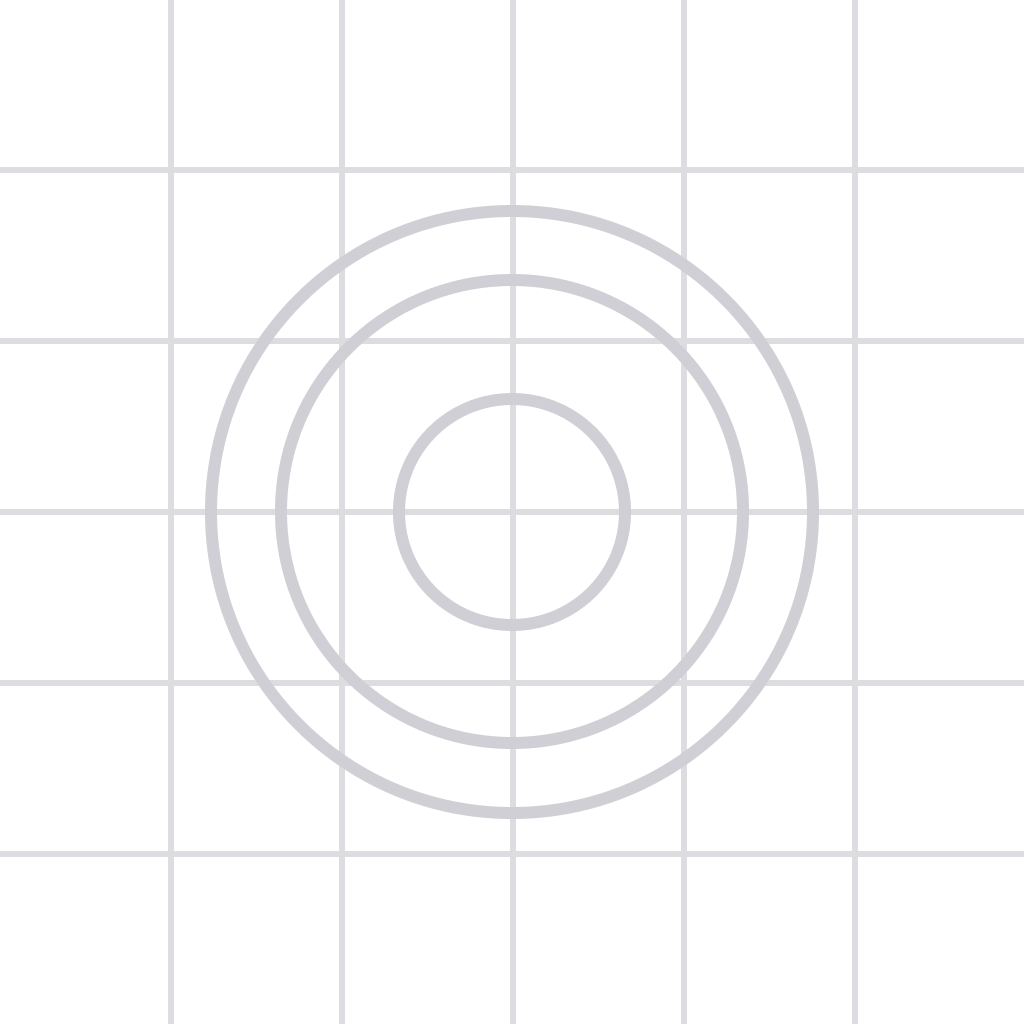
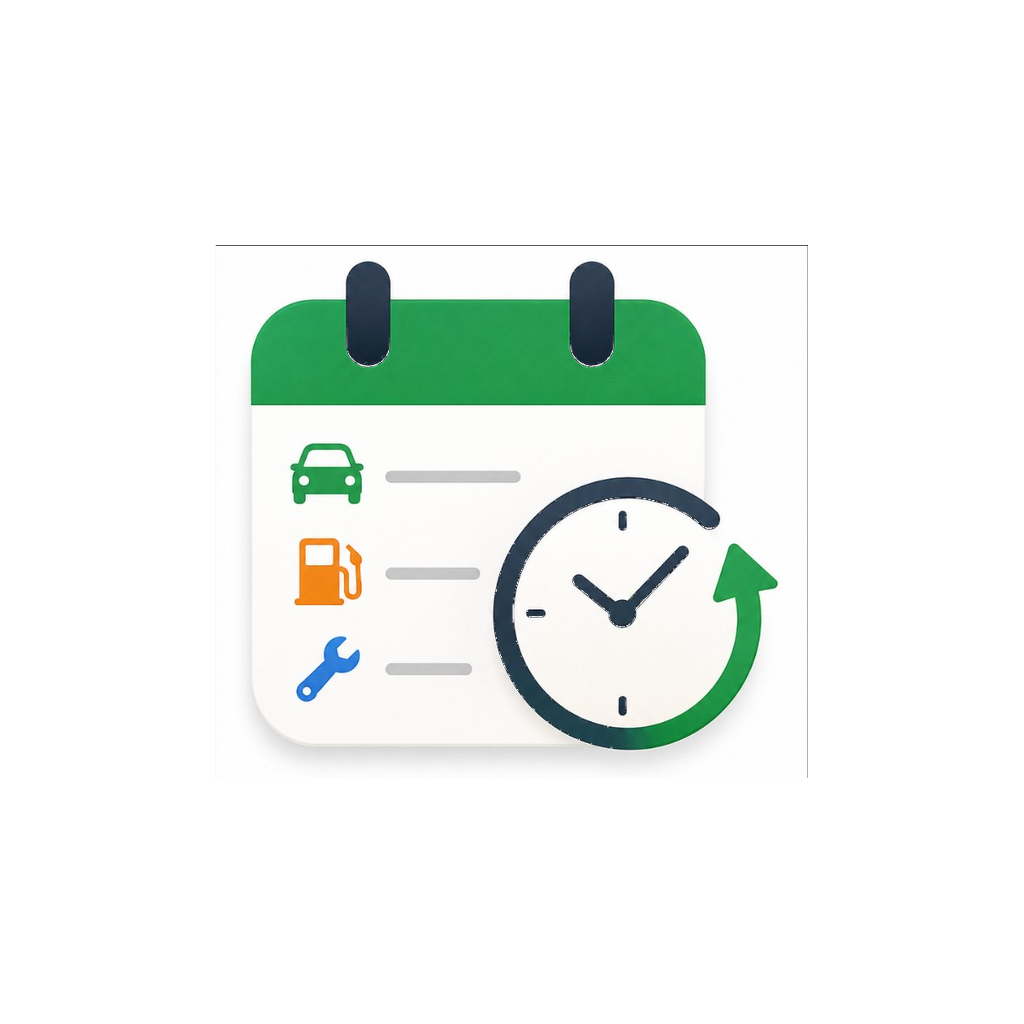
Finished removed bugs after App test

Changed region(s): [[0.0, 0.0, 1.0, 1.0]]

diff --git a/App.js b/App.js
@@ -1,8 +1,11 @@
-import { useState, useEffect } from "react";
+import { useState, useEffect, useRef } from "react";
+import {
+  SafeAreaProvider,
+  useSafeAreaInsets,
+} from "react-native-safe-area-context";
 import Welcome from "./Welcome";
 import styles from "./styles";
 import {
-  SafeAreaView,
   View,
   Text,
   FlatList,
@@ -12,7 +15,6 @@ import {
   Platform,
   LogBox,
   Modal,
-  KeyboardAvoidingView,
   Keyboard,
   Image,
 } from "react-native";
@@ -73,28 +75,15 @@ function normalize(item) {
   };
 }
 
-const SEED = [
-  {
-    id: "1",
-    name: "Quran reading",
-    history: [
-      { date: "2026-06-15", note: "Surah Al-Baqarah, Ayah 142" },
-      { date: "2026-06-10", note: "Surah Al-Baqarah, Ayah 88" },
-    ],
-  },
-  {
-    id: "2",
-    name: "Motorcycle oil change",
-    history: [{ date: "2026-05-20", note: "" }],
-  },
-  {
-    id: "3",
-    name: "Backed up laptop",
-    history: [{ date: "2026-04-30", note: "Full backup to external drive" }],
-  },
-];
-
 export default function App() {
+  return (
+    <SafeAreaProvider>
+      <Main />
+    </SafeAreaProvider>
+  );
+}
+
+function Main() {
   const [items, setItems] = useState([]);
   const [draft, setDraft] = useState("");
   const [loaded, setLoaded] = useState(false);
@@ -107,6 +96,9 @@ export default function App() {
   const [reminderId, setReminderId] = useState(null);
   const [reminderValue, setReminderValue] = useState("1");
   const [reminderUnit, setReminderUnit] = useState("days");
+
+  const insets = useSafeAreaInsets();
+  const listRef = useRef(null);
 
   //too hide keyboard
   useEffect(() => {
@@ -143,10 +135,10 @@ export default function App() {
     (async () => {
       try {
         const json = await AsyncStorage.getItem(STORAGE_KEY);
-        const raw = json != null ? JSON.parse(json) : SEED;
+        const raw = json != null ? JSON.parse(json) : [];
         setItems(raw.map(normalize));
       } catch (e) {
-        setItems(SEED);
+        setItems([]);
       } finally {
         setLoaded(true);
       }
@@ -229,6 +221,16 @@ export default function App() {
   function startEdit(itemId, idx, currentNote) {
     setEditing({ itemId, idx });
     setEditDraft(currentNote || "");
+    const itemIndex = items.findIndex((i) => i.id === itemId);
+    if (itemIndex >= 0) {
+      setTimeout(() => {
+        listRef.current?.scrollToIndex({
+          index: itemIndex,
+          animated: true,
+          viewPosition: 0.2,
+        });
+      }, 100);
+    }
   }
 
   function saveEdit() {
@@ -249,16 +251,6 @@ export default function App() {
     );
     setEditing(null);
     setEditDraft("");
-  }
-
-  function deleteEntry(itemId, idx) {
-    setItems((prev) =>
-      prev.map((it) =>
-        it.id === itemId
-          ? { ...it, history: it.history.filter((_, i) => i !== idx) }
-          : it
-      )
-    );
   }
 
   function deleteEntry(itemId, idx) {
@@ -359,7 +351,7 @@ export default function App() {
 
   if (!ready) return <Welcome onDone={() => setReady(true)} />;
   return (
-    <SafeAreaView style={styles.screen}>
+    <View style={[styles.screen, { paddingTop: insets.top }]}>
       <StatusBar style="auto" />
       {/* header code */}
       <View style={styles.header}>
@@ -389,9 +381,19 @@ export default function App() {
           <Text style={styles.addButtonText}>Add</Text>
         </Pressable>
       </View>
-    {/* Card section */}
+      {/* Card section */}
       <FlatList
-        contentContainerStyle={{ paddingBottom: kbHeight + 40 }}
+        ref={listRef}
+        onScrollToIndexFailed={(info) => {
+          setTimeout(() => {
+            listRef.current?.scrollToIndex({
+              index: info.index,
+              animated: true,
+              viewPosition: 0.2,
+            });
+          }, 250);
+        }}
+        contentContainerStyle={{ paddingBottom: kbHeight + insets.bottom + 12 }}
         data={items}
         ListEmptyComponent={<EmptyComponent />}
         keyExtractor={(item) => item.id}
@@ -527,18 +529,20 @@ export default function App() {
           );
         }}
       />
-
+      {/* add entry modal */}
       <Modal
         visible={activeId !== null}
         transparent
         animationType="slide"
         onRequestClose={cancelEntry}
       >
-        <KeyboardAvoidingView
-          behavior={Platform.OS === "ios" ? "padding" : undefined}
-          style={styles.modalOverlay}
-        >
-          <View style={styles.modalCard}>
+        <View style={styles.modalOverlay}>
+          <View
+            style={[
+              styles.modalCard,
+              { paddingBottom: kbHeight + insets.bottom + 16 },
+            ]}
+          >
             <Text style={styles.modalTitle}>{activeItem?.name}</Text>
             <Text style={styles.modalSub}>
               Description of what you've just done
@@ -565,19 +569,22 @@ export default function App() {
               </Pressable>
             </View>
           </View>
-        </KeyboardAvoidingView>
+        </View>
       </Modal>
+      {/* remind me modal */}
       <Modal
         visible={reminderId !== null}
         transparent
         animationType="slide"
         onRequestClose={() => setReminderId(null)}
       >
-        <KeyboardAvoidingView
-          behavior={Platform.OS === "ios" ? "padding" : undefined}
-          style={styles.modalOverlay}
-        >
-          <View style={styles.modalCard}>
+        <View style={styles.modalOverlay}>
+          <View
+            style={[
+              styles.modalCard,
+              { paddingBottom: kbHeight + insets.bottom + 16 },
+            ]}
+          >
             <Text style={styles.modalTitle}>Remind me</Text>
             <Text style={styles.modalSub}>Notify me every…</Text>
             <TextInput
@@ -623,8 +630,8 @@ export default function App() {
               </Pressable>
             </View>
           </View>
-        </KeyboardAvoidingView>
+        </View>
       </Modal>
-    </SafeAreaView>
+    </View>
   );
 }

diff --git a/styles.js b/styles.js
@@ -11,7 +11,7 @@ export default StyleSheet.create({
     flexDirection: "row",
     justifyContent: "space-between",
     alignItems: "center",
-    marginTop: 46,
+    marginTop: 20,
     marginBottom: 16,
   },
 